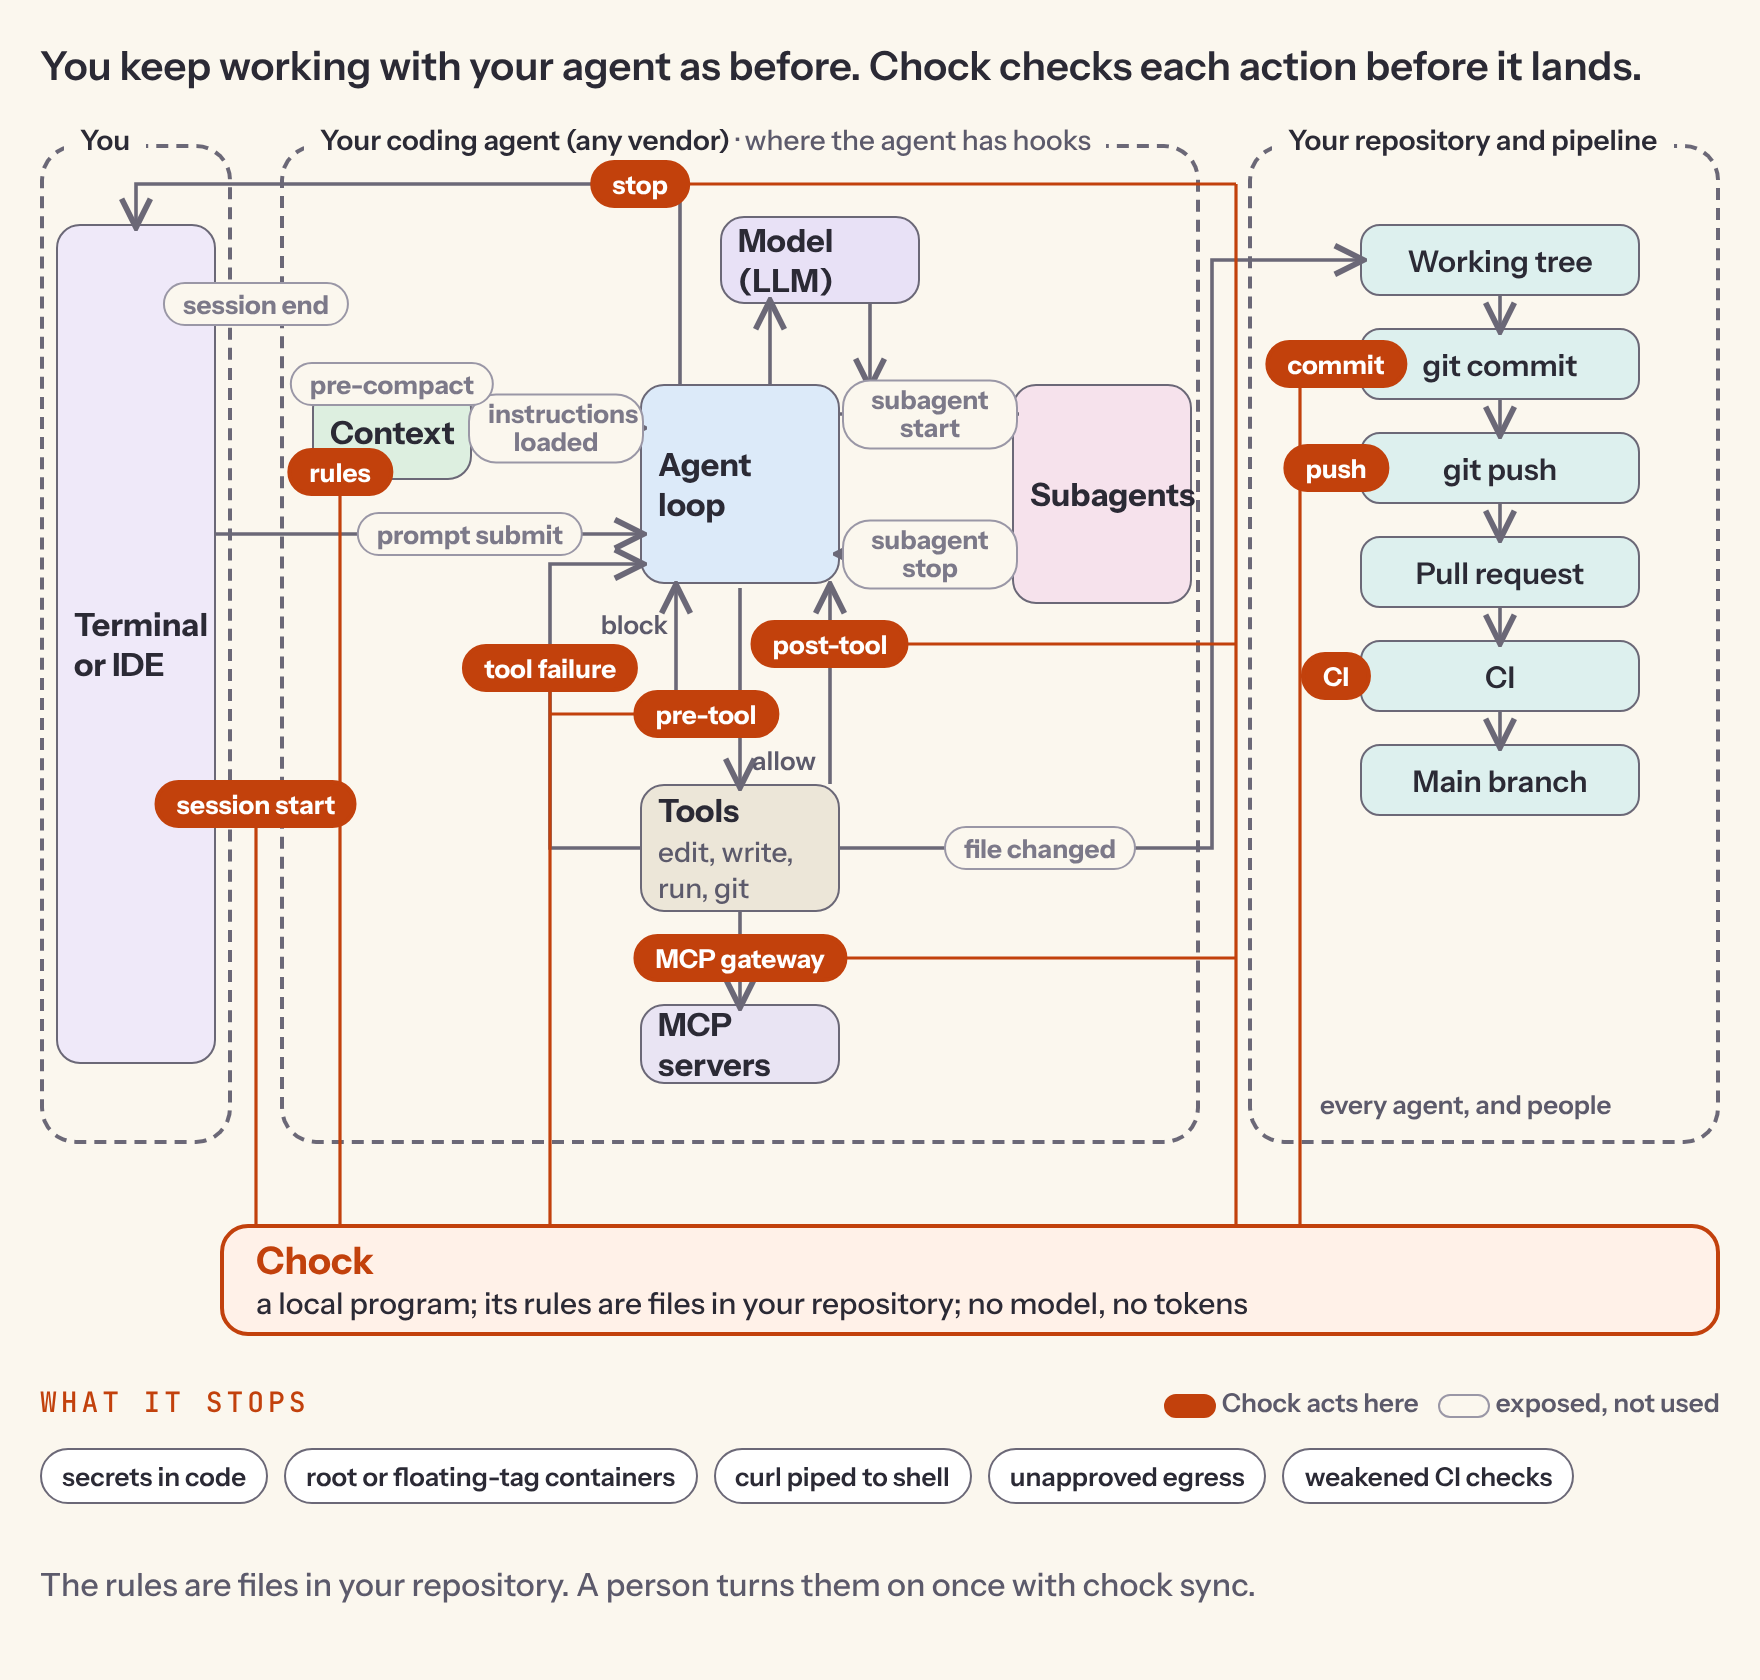
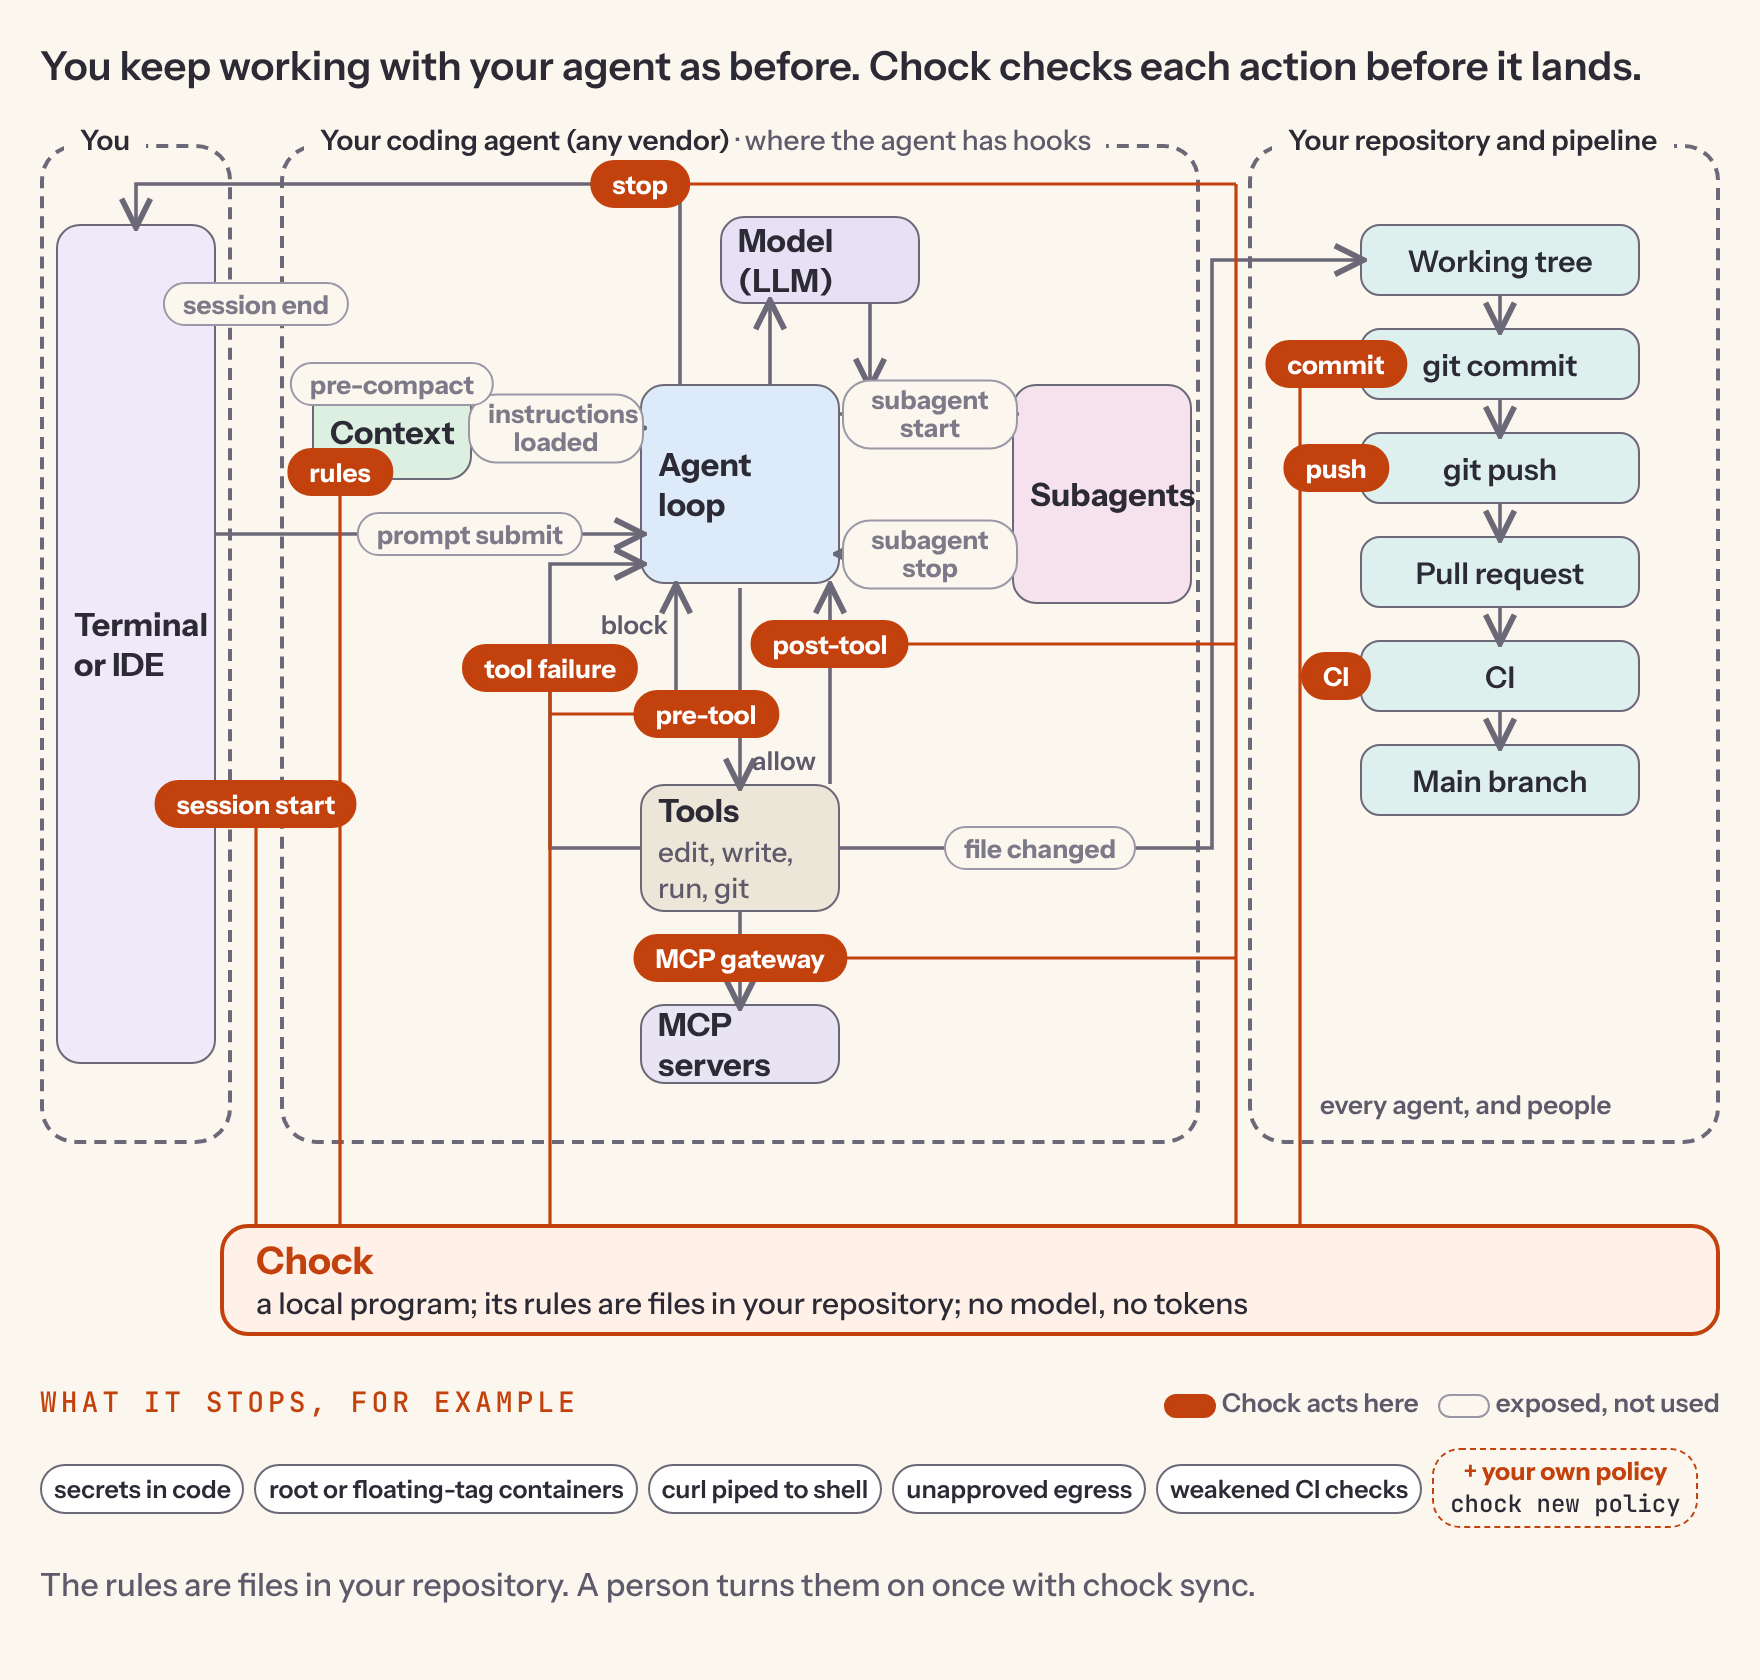
README figure: a sixth chip for your own policy; heading says for example
The five stops are examples. A dashed "+ your own policy" chip with chock new
policy under it shows a reader can add one; a test checks the chip is not a
catalog policy and that the command exists.

Changed region(s): [[0.0312, 0.8667, 0.9688, 0.8976], [0.2812, 0.8048, 0.3125, 0.8357]]

diff --git a/tests/test_readme_picture.py b/tests/test_readme_picture.py
@@ -96,3 +96,14 @@ def test_architecture_doc_lists_every_point_with_its_scope() -> None:
 def test_figure_has_no_legend_and_five_short_chips() -> None:
     assert len(FIGURE["stops"]) == 5
     assert all(len(chip.split()) <= 4 for chip in FIGURE["stops"])
+
+
+def test_a_sixth_chip_invites_the_reader_to_add_their_own_policy() -> None:
+    own = FIGURE["own"]
+    assert own["label"] == "+ your own policy" and own["command"] == "chock new policy"
+    assert FIGURE["stops_title"] == "What it stops, for example"
+    assert own["label"] not in FIGURE["stops"]
+    commands = json.loads((ROOT / "src" / "chock" / "data" / "commands.json").read_text(encoding="utf-8"))
+    assert "new" in commands["authoring"]
+    for rel in own["proof"]:
+        assert (ROOT / rel).is_file(), rel
